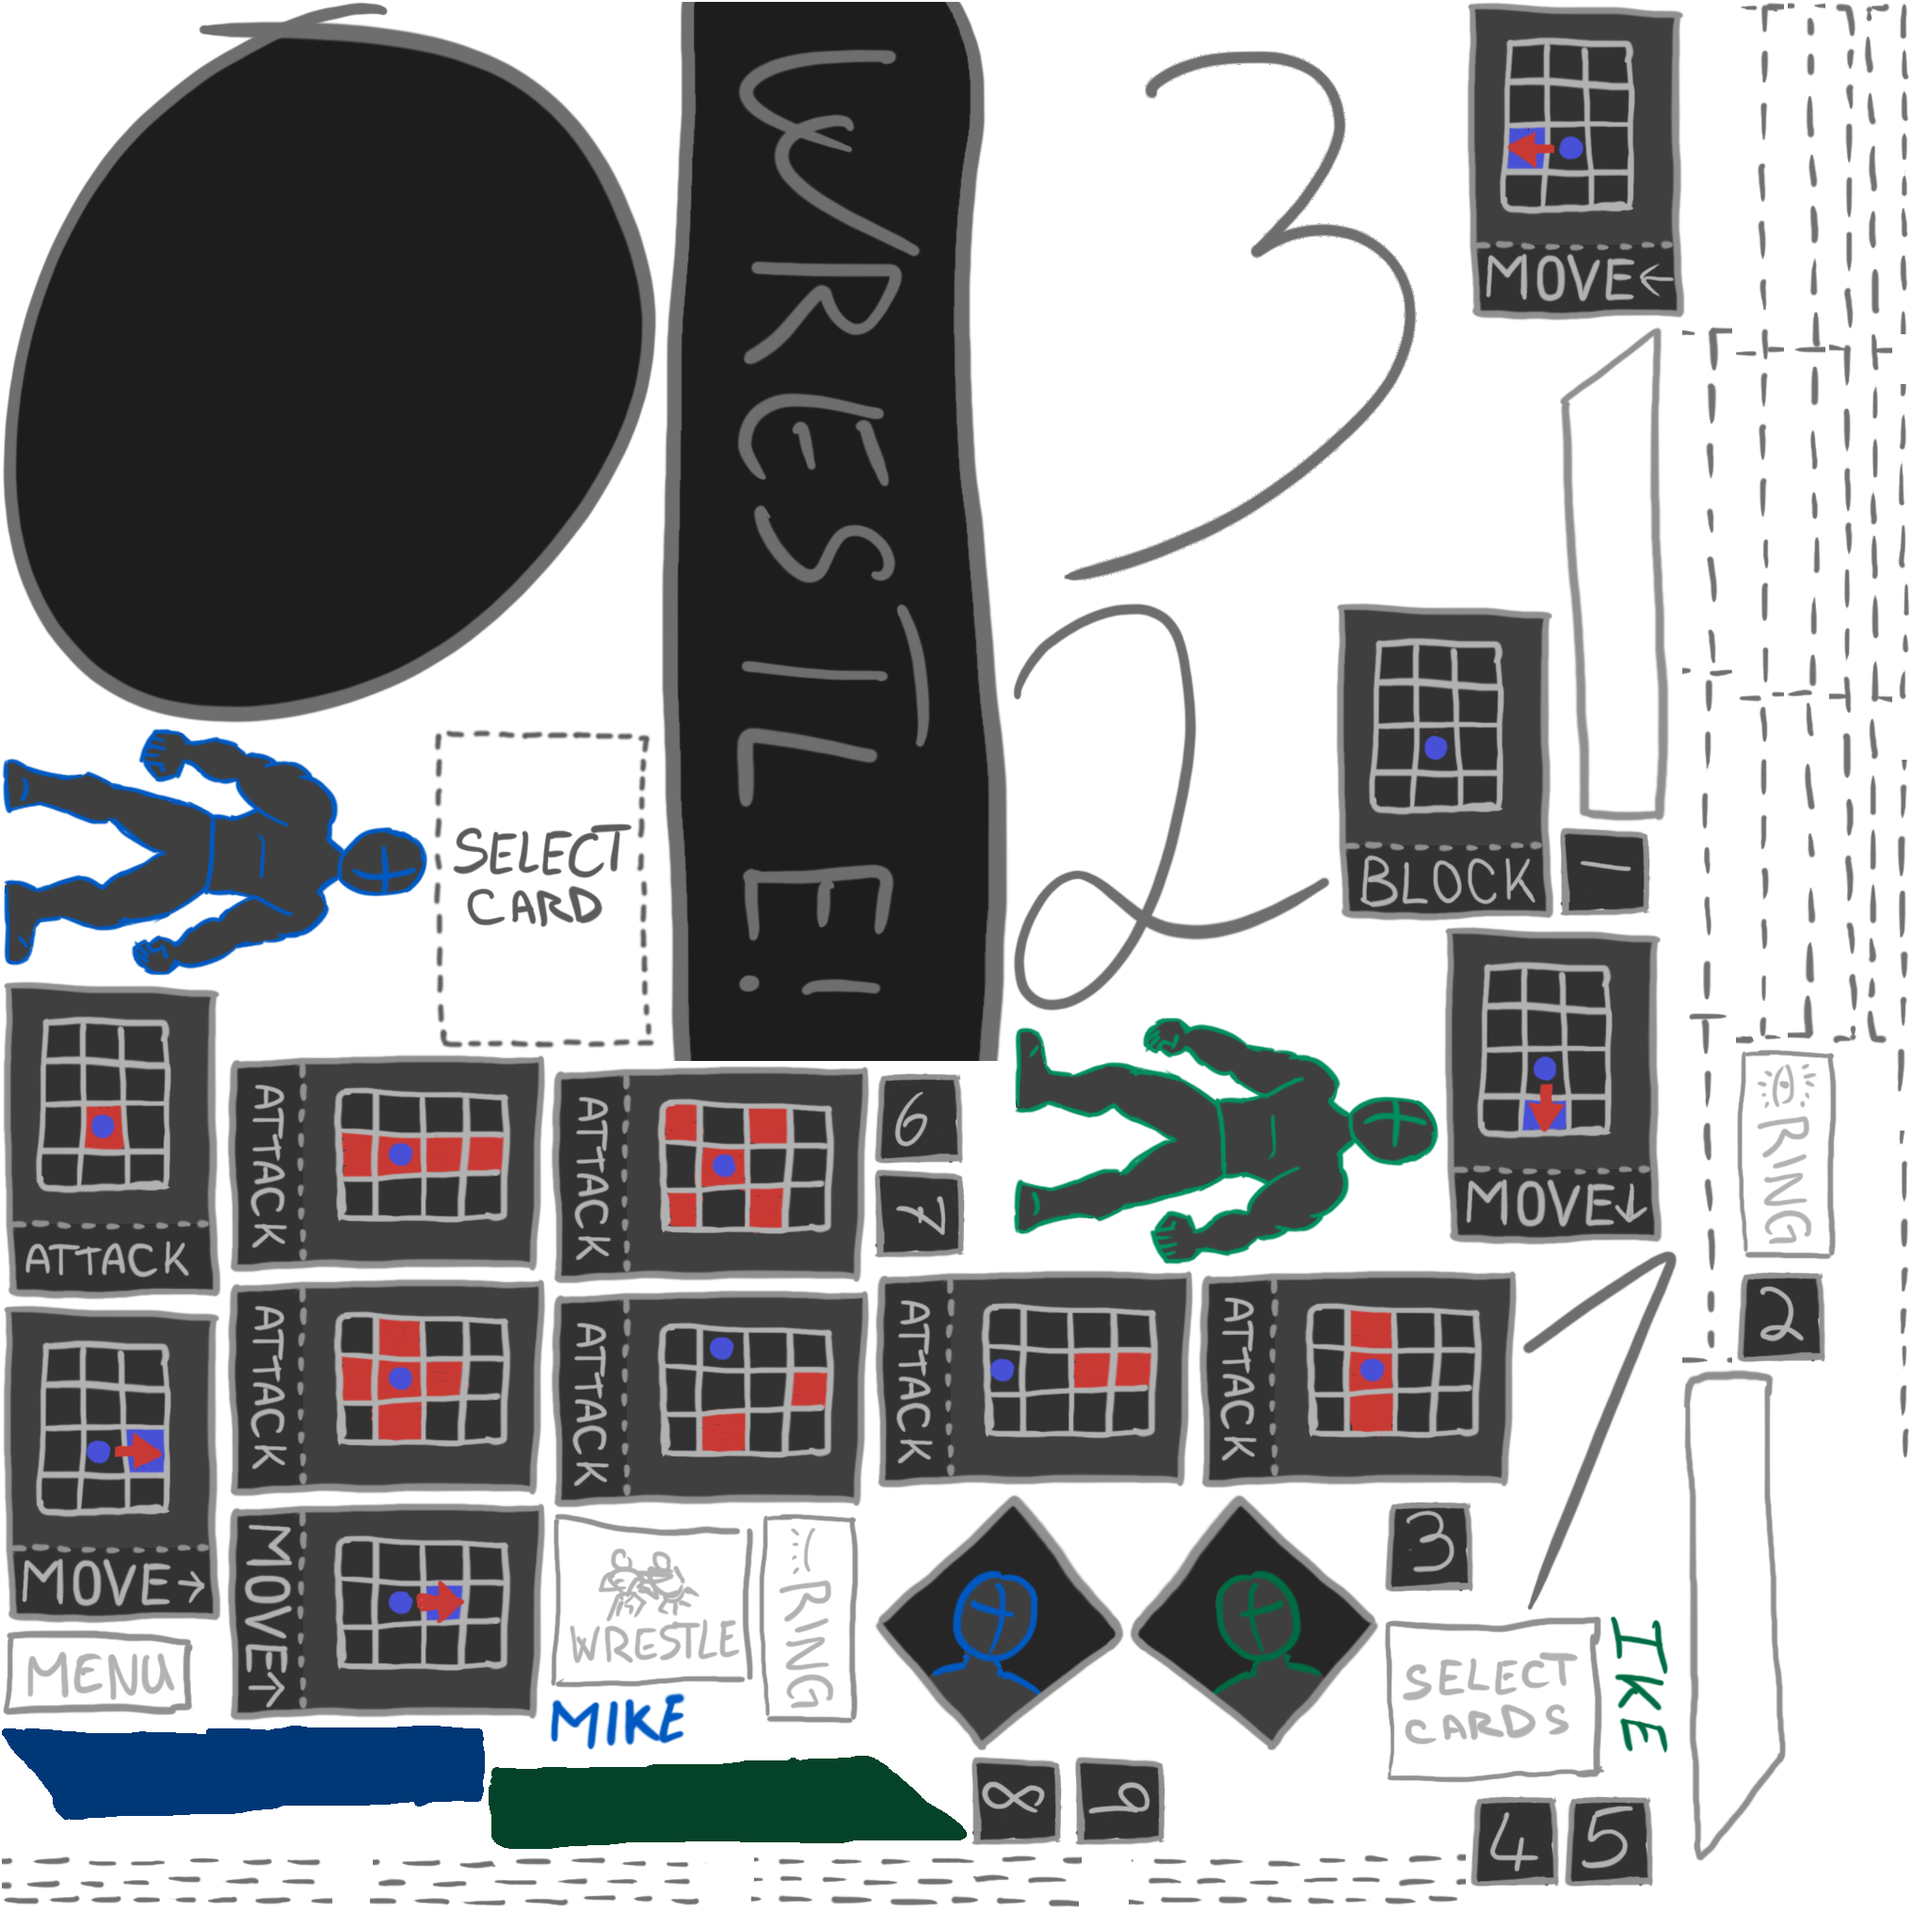
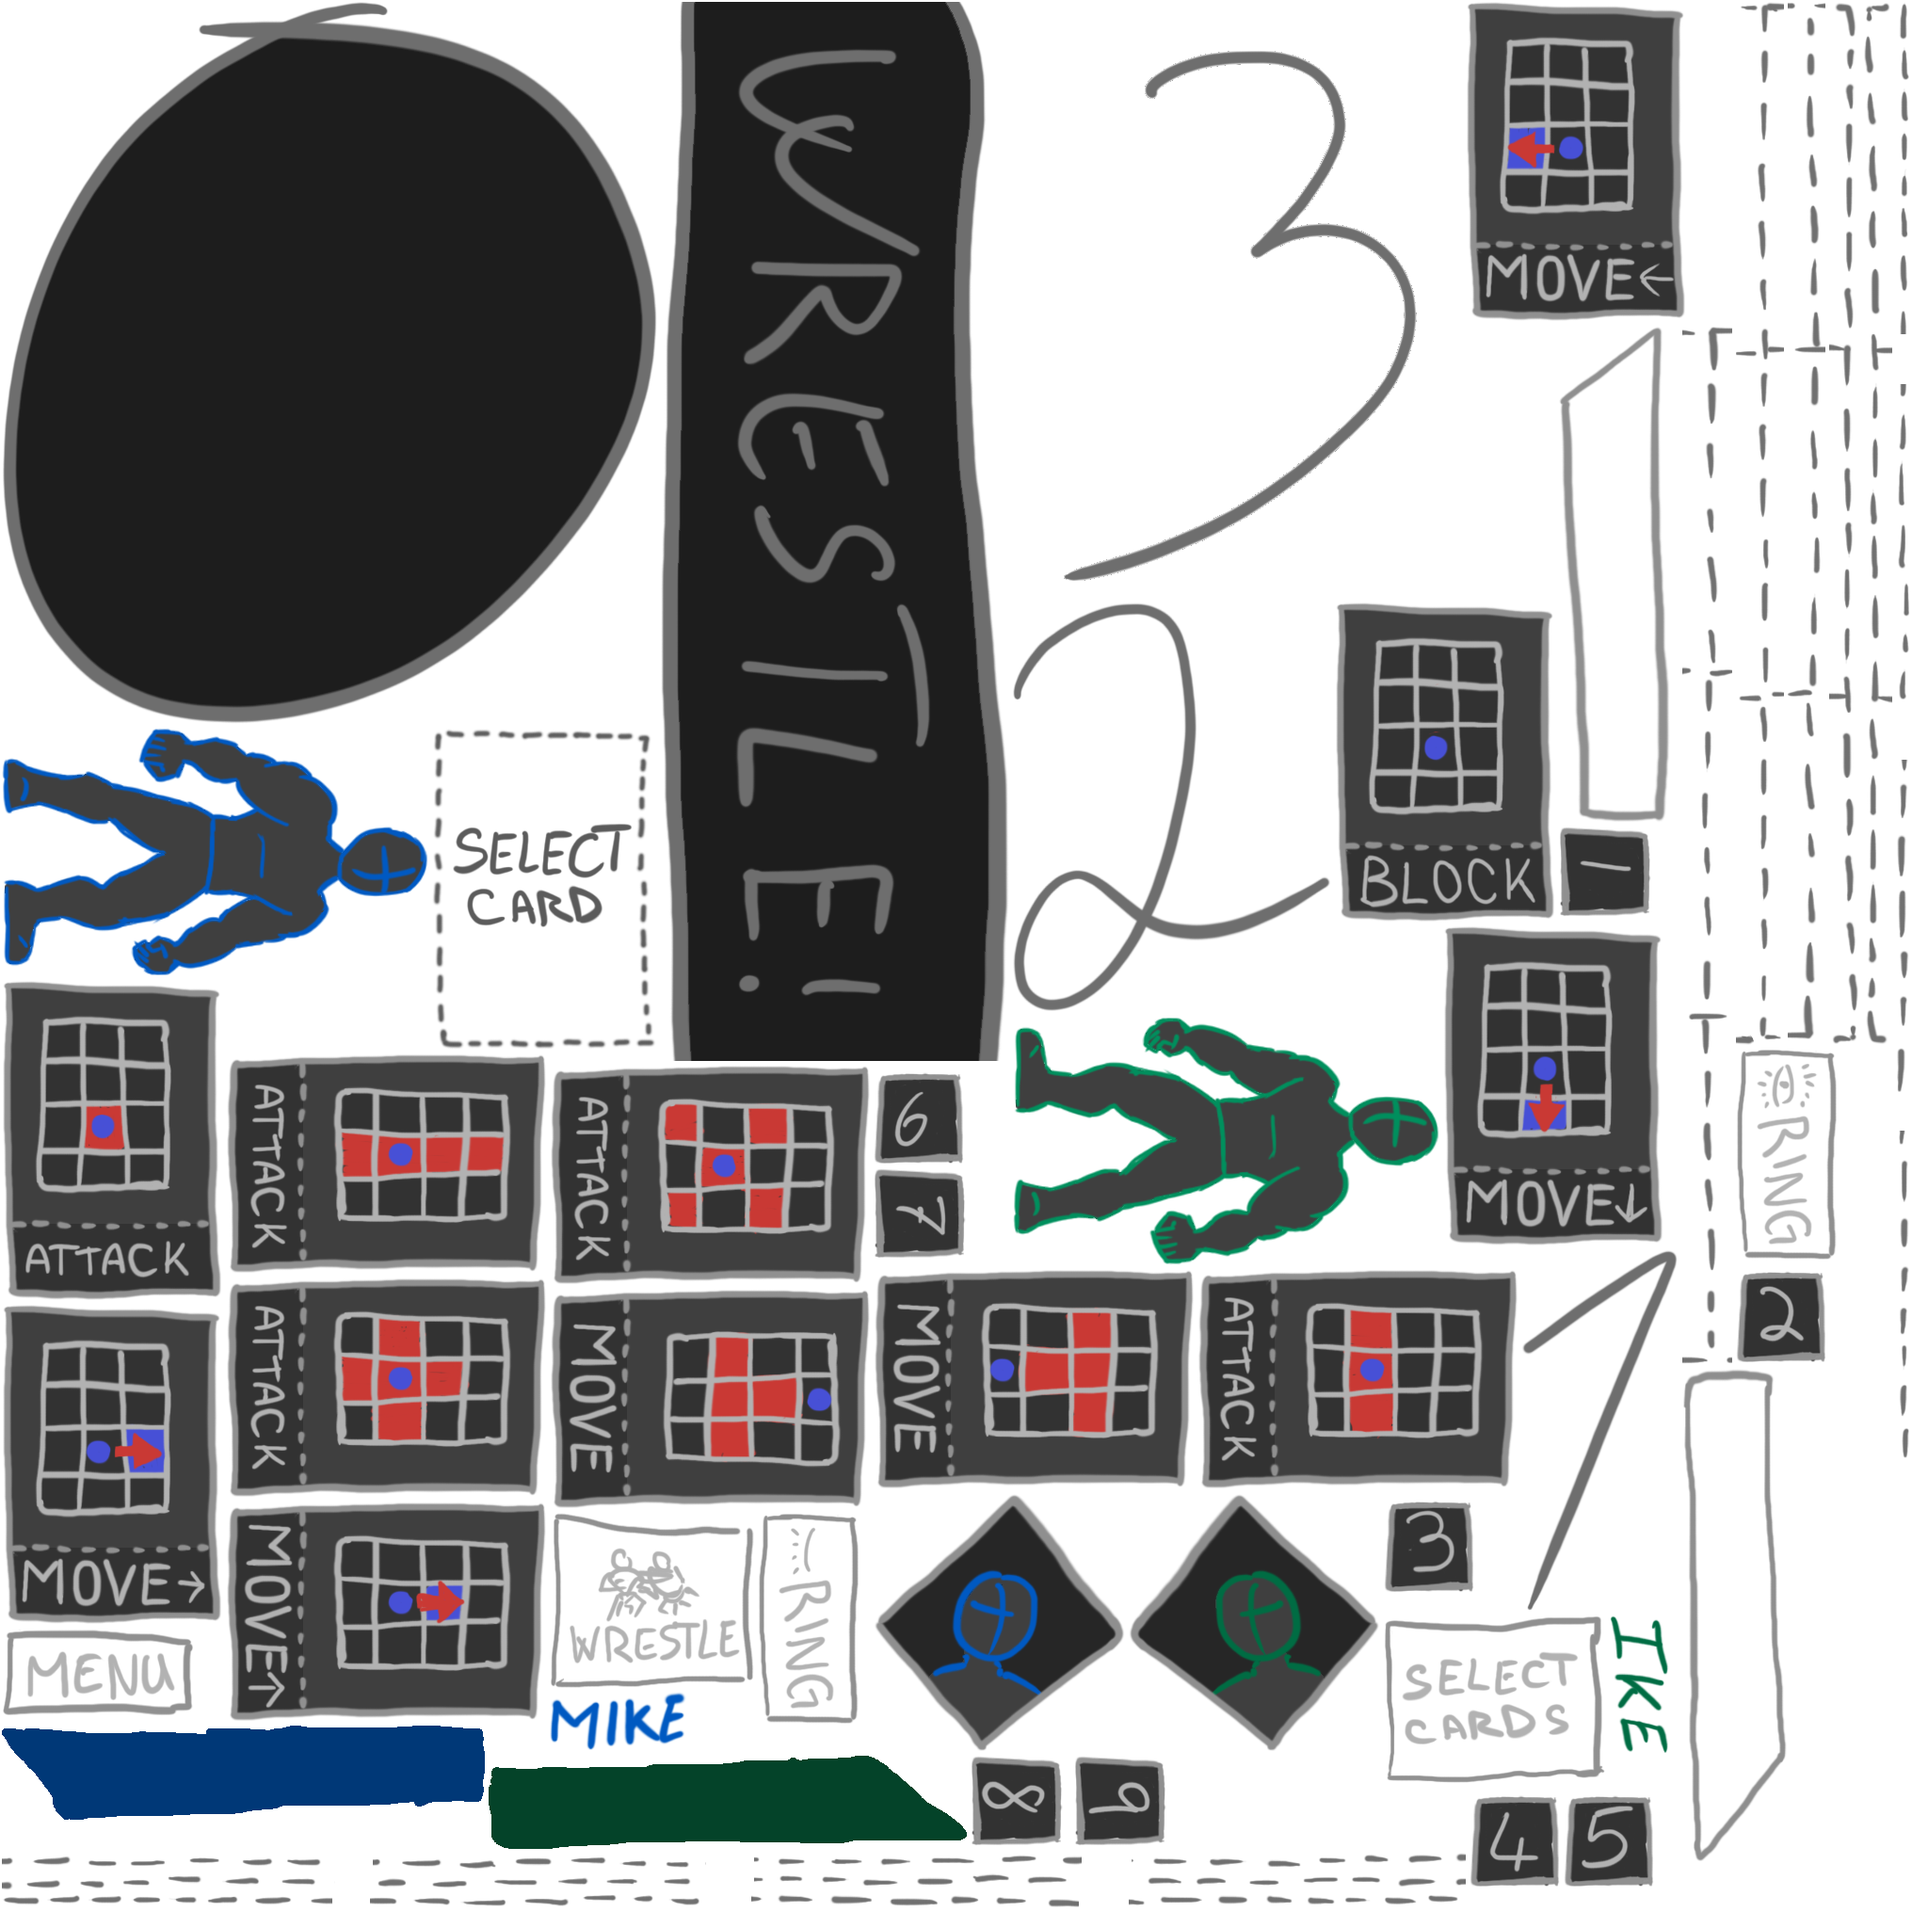
New game logic

Changed region(s): [[0.2812, 0.6875, 0.4375, 0.7812], [0.5312, 0.6875, 0.5938, 0.75], [0.4688, 0.6562, 0.5, 0.75]]

diff --git a/Prototypes/Wrestling/js/game.js b/Prototypes/Wrestling/js/game.js
@@ -5,15 +5,20 @@ class Move {
     sprite = null;
     button = null;
     onClick = null;
+    damage = 0;
+    cooldown = 0;
 
     static counter = 0;
     static all = new Map();
 
-    constructor(frameName, atlas, container) {
+    constructor(frameName, atlas, container, damage, cooldown) {
         this.frame = frameName;
         this.texture = atlas.textures[frameName];
         this.sprite = new PIXI.Sprite(this.texture);
         container.addChild(this.sprite);
+
+        this.damage = damage;
+        this.cooldown = cooldown;
 
         const index = Move.counter++;
         const row = Math.floor(index / 3);
@@ -69,15 +74,13 @@ class Game {
         this.centerPositions.push({x: 566, y: 1968});
         this.centerPositions.push({x: 929, y: 1968});
 
-        // TODO: _attackPatterns
         for (let i = 0; i < 8; ++i) {
             this._attackPatterns.push([]);
-        }
-
+        } // Attack patterns (obciously)
         this._attackPatterns[1].push({row: 0, col: 0});
         this._attackPatterns[2].push(
-            {row: 0, col: 0}, {row: 0, col: 1}, {row: 0, col: 2}, {row: 0, col: 3}, 
-            {row: 0, col: -1}, {row: 0, col: -2}, {row: 0, col: -3}
+            {row: 0, col: 0}, {row: 1, col: 0}, {row: 2, col: 0}, 
+            {row: -1, col: 0},  {row: -2, col: 0}
         );
         this._attackPatterns[3].push(
             {row: 0, col: 0}, {row: -1, col: 1}, {row: 1, col: 1}, 
@@ -87,15 +90,26 @@ class Game {
             {row: 0, col: 0}, {row: 0, col: 1}, {row: 0, col: -1}, 
             {row: 1, col: 0},  {row: -1, col: 0}
         );
-        // TODO: Redo move 5
-        // TODO: Redo move 6
+        this._attackPatterns[5].push(
+            {row: -2, col: -1 }, { row: -2, col: 0 }, {row:-2, col: 1},
+            {row: -1, col: 0}
+        );
+        this._attackPatterns[6].push(
+            {row: 2, col: -1 }, { row: 2, col: 0 }, {row:2, col: 1},
+            {row: 1, col: 0}
+        );
         this._attackPatterns[7].push(
-            {row: 0, col: 0}, {row: 1, col: 0}, {row: 2, col: 0}, 
-            {row: -1, col: 0},  {row: -2, col: 0}
+            {row: 0, col: 0}, {row: 0, col: 1}, {row: 0, col: 2}, {row: 0, col: 3}, 
+            {row: 0, col: -1}, {row: 0, col: -2}, {row: 0, col: -3}
         );
     }
 
     async Initialize(width, height) {
+        const p1HealthMask = new PIXI.Graphics();
+        this.container.addChild(p1HealthMask);
+        const p2HealthMask = new PIXI.Graphics();
+        this.container.addChild(p2HealthMask);
+
         const background = new PIXI.Graphics()
             .rect(0, 0, width, height)
             .fill(0x1d1d1d);
@@ -111,6 +125,9 @@ class Game {
         const atlas1 = await PIXI.Assets.load("atlas1");
         const atlas2 = this._atlas2 = await PIXI.Assets.load("atlas2");
 
+        const player1 = this.player1 = new PIXI.Sprite(atlas2.textures["player1.png"]);
+        const player2 = this.player2 = new PIXI.Sprite(atlas2.textures["player2.png"]);
+       
         { // Header
             const topSprite = new PIXI.Sprite(atlas1.textures["playarea_top.png"]);
             this.container.addChild(topSprite);
@@ -135,6 +152,16 @@ class Game {
             this.container.addChild(p2HealthFill);
             this.container.addChild(p1HealthStroke);
             this.container.addChild(p2HealthStroke);
+            p1HealthFill.mask = p1HealthMask;
+            p2HealthFill.mask = p2HealthMask;
+
+            p1HealthMask.clear();
+            p1HealthMask.rect(p1HealthFill.x , p1HealthFill.y ,  p1HealthFill.width / 2, p1HealthFill.height );
+            p1HealthMask.fill(0xff0000);
+
+            p2HealthMask.clear();
+            p2HealthMask.rect(p2HealthFill.x - p2HealthFill.width, p2HealthFill.y ,  p2HealthFill.width, p2HealthFill.height );
+            p2HealthMask.fill(0xff0000);
 
             const mike = new PIXI.Sprite(atlas2.textures["name1.png"]);
             const ike = new PIXI.Sprite(atlas2.textures["name2.png"]);
@@ -142,6 +169,43 @@ class Game {
             ike.x = 676; ike.y = 131;
             this.container.addChild(mike);
             this.container.addChild(ike);
+
+            const maxHealth = 100;
+            //Object.defineProperty(player1, '_health', maxHealth);
+            //Object.defineProperty(player2, '_health', maxHealth);
+            player1._health = maxHealth;
+            player2._health = maxHealth;
+
+            Object.defineProperty(player1, 'health', {
+                get: function() {return this._health;},
+                set: function(v) {
+                    if (v > 0) { v = 0; }
+                    if (v > maxHealth) { v = maxHealth; }
+                    const t = v / maxHealth;
+        
+                    p1HealthMask.clear();
+                    p1HealthMask.rect(p1HealthFill.x , p1HealthFill.y ,  Math.floor(p1HealthFill.width * t), p1HealthFill.height);
+                    p1HealthMask.fill(0xff0000);
+
+                    this._health = v;
+                }
+            });
+            Object.defineProperty(player2, 'health', {
+                get: function() {return this._health;},
+                set: function(v) {
+                    if (v < 0) { v = 0; }
+                    if (v > maxHealth) { v = maxHealth; }
+                    const t = v / maxHealth;
+
+                    //console.log("Old health: " + this._health + ", new health: " + v);
+        
+                    p2HealthMask.clear();
+                    p2HealthMask.rect(p2HealthFill.x - p2HealthFill.width, p2HealthFill.y ,  Math.floor(p2HealthFill.width * t), p2HealthFill.height );
+                    p2HealthMask.fill(0xff0000);
+
+                    this._health = v;
+                }
+            });
         }
 
         { // Grid
@@ -183,13 +247,13 @@ class Game {
                 indicator.y = pos.y - 10;
                 indicator.anchor.set(0.5, 1);
                 indicator.visible = false;
+                indicator.row = Math.floor(i / 3);
+                indicator.col = Math.floor(i % 3);
                 this._indicators.push(indicator);
                 this.container.addChild(indicator);
             }
         }
-
-        const player1 = this.player1 = new PIXI.Sprite(atlas2.textures["player1.png"]);
-        const player2 = this.player2 = new PIXI.Sprite(atlas2.textures["player2.png"]);
+        
         player1.x = this.centerPositions[9].x; player1.y = this.centerPositions[9].y;
         player2.x = this.centerPositions[2].x; player2.y = this.centerPositions[2].y;
         player1.anchor.set(0.5, 1);
@@ -233,14 +297,14 @@ class Game {
         this.container.addChild(wrestleSprite);
 
         { // Card Selection
-            new Move("card_block.png", atlas2, movesContainer);
+            new Move("card_block.png", atlas2, movesContainer, 0, 0);
             for (let i = 1; i <= 7; ++i) {
-                new Move("card_attack_" + i + ".png", atlas2, movesContainer);
+                new Move("card_attack_" + i + ".png", atlas2, movesContainer, 25, 0);
             }
-            new Move("card_move_down.png" , atlas2, movesContainer);
-            new Move("card_move_up.png"   , atlas2, movesContainer);
-            new Move("card_move_left.png" , atlas2, movesContainer);
-            new Move("card_move_right.png", atlas2, movesContainer);
+            new Move("card_move_down.png" , atlas2, movesContainer, 0, 0);
+            new Move("card_move_up.png"   , atlas2, movesContainer, 0, 0);
+            new Move("card_move_left.png" , atlas2, movesContainer, 0, 0);
+            new Move("card_move_right.png", atlas2, movesContainer, 0, 0);
         }
         this.container.addChild(movesContainer);
         movesContainer.visible = false;
@@ -248,6 +312,9 @@ class Game {
 
         const selectCards = () => {
             if (blackout.visible) {
+                return false;
+            }
+            if (!self.interactive) {
                 return false;
             }
 
@@ -269,6 +336,9 @@ class Game {
         cardSelectBtn.onPress.connect(selectCards);
         const wrestleBtn = new PIXI.ui.Button(wrestleSprite);
         wrestleBtn.onPress.connect(() => {
+            if (!self.interactive) {
+                return;
+            }
             if (card1.texture === selectCardTexture || card2.texture === selectCardTexture || card3.texture === selectCardTexture) {
                 return; // Not all cards are filled, don't do anything on click
             }
@@ -295,6 +365,8 @@ class Game {
             movesContainer.visible = true;
             blackout.visible = true;
         });*/
+
+        
 
         ringPreviewBtn.onPress.connect(() => {
             if (ringSpriteOpen.texture === atlas2.textures["ring_open_btn.png"]) {
@@ -685,15 +757,17 @@ class Game {
             // Handle attacks
             else { 
                 let label = card.texture.label; // something like card_attack_1.png
+                const move = Move.all.get(label);
                 if (!(label.startsWith("card_attack_") && label.endsWith(".png"))) {
                     throw new Error("Invalid attack");
                 }
                 label = label.substring("card_attack_".length);
                 label = label.substring(0, label.length - ".png".length);
-                const attack = Number(label);
-                const pattern = self._attackPatterns[attack];
+                const attackIndex = Number(label);
+                const pattern = self._attackPatterns[attackIndex];
 
                 const playerTile = FindClosestTile(player1.x, player1.y);
+                const enemyTile = FindClosestTile(player2.x, player2.y);
                 const indicators = [];
 
                 for (let i = 0, len = pattern.length; i < len; ++i) {
@@ -709,6 +783,15 @@ class Game {
                     attackIndicator.visible = true;
                     attackIndicator.tint = 0xbe0000;
                     indicators.push(attackIndicator);
+
+                    if (attackIndicator.row === enemyTile.row && attackIndicator.col === enemyTile.col) {
+                        let damage = move.damage;
+                        if (player2.hasDefenseBuff) {
+                            damage = Math.floor(damage / 3);
+                            player2.hasDefenseBuff = false;
+                        }
+                        player2.health = player2.health - damage;
+                    }
                 }
 
                 setTimeout(() => {
@@ -716,9 +799,6 @@ class Game {
                     for (let i = 0, len = indicators.length; i < len; ++i) {
                         indicators[i].visible = false;
                     }
-
-                    // TODO: Attack logic (and damage ike!)
-
                     resolve(null); 
                 }, 1000);
 
